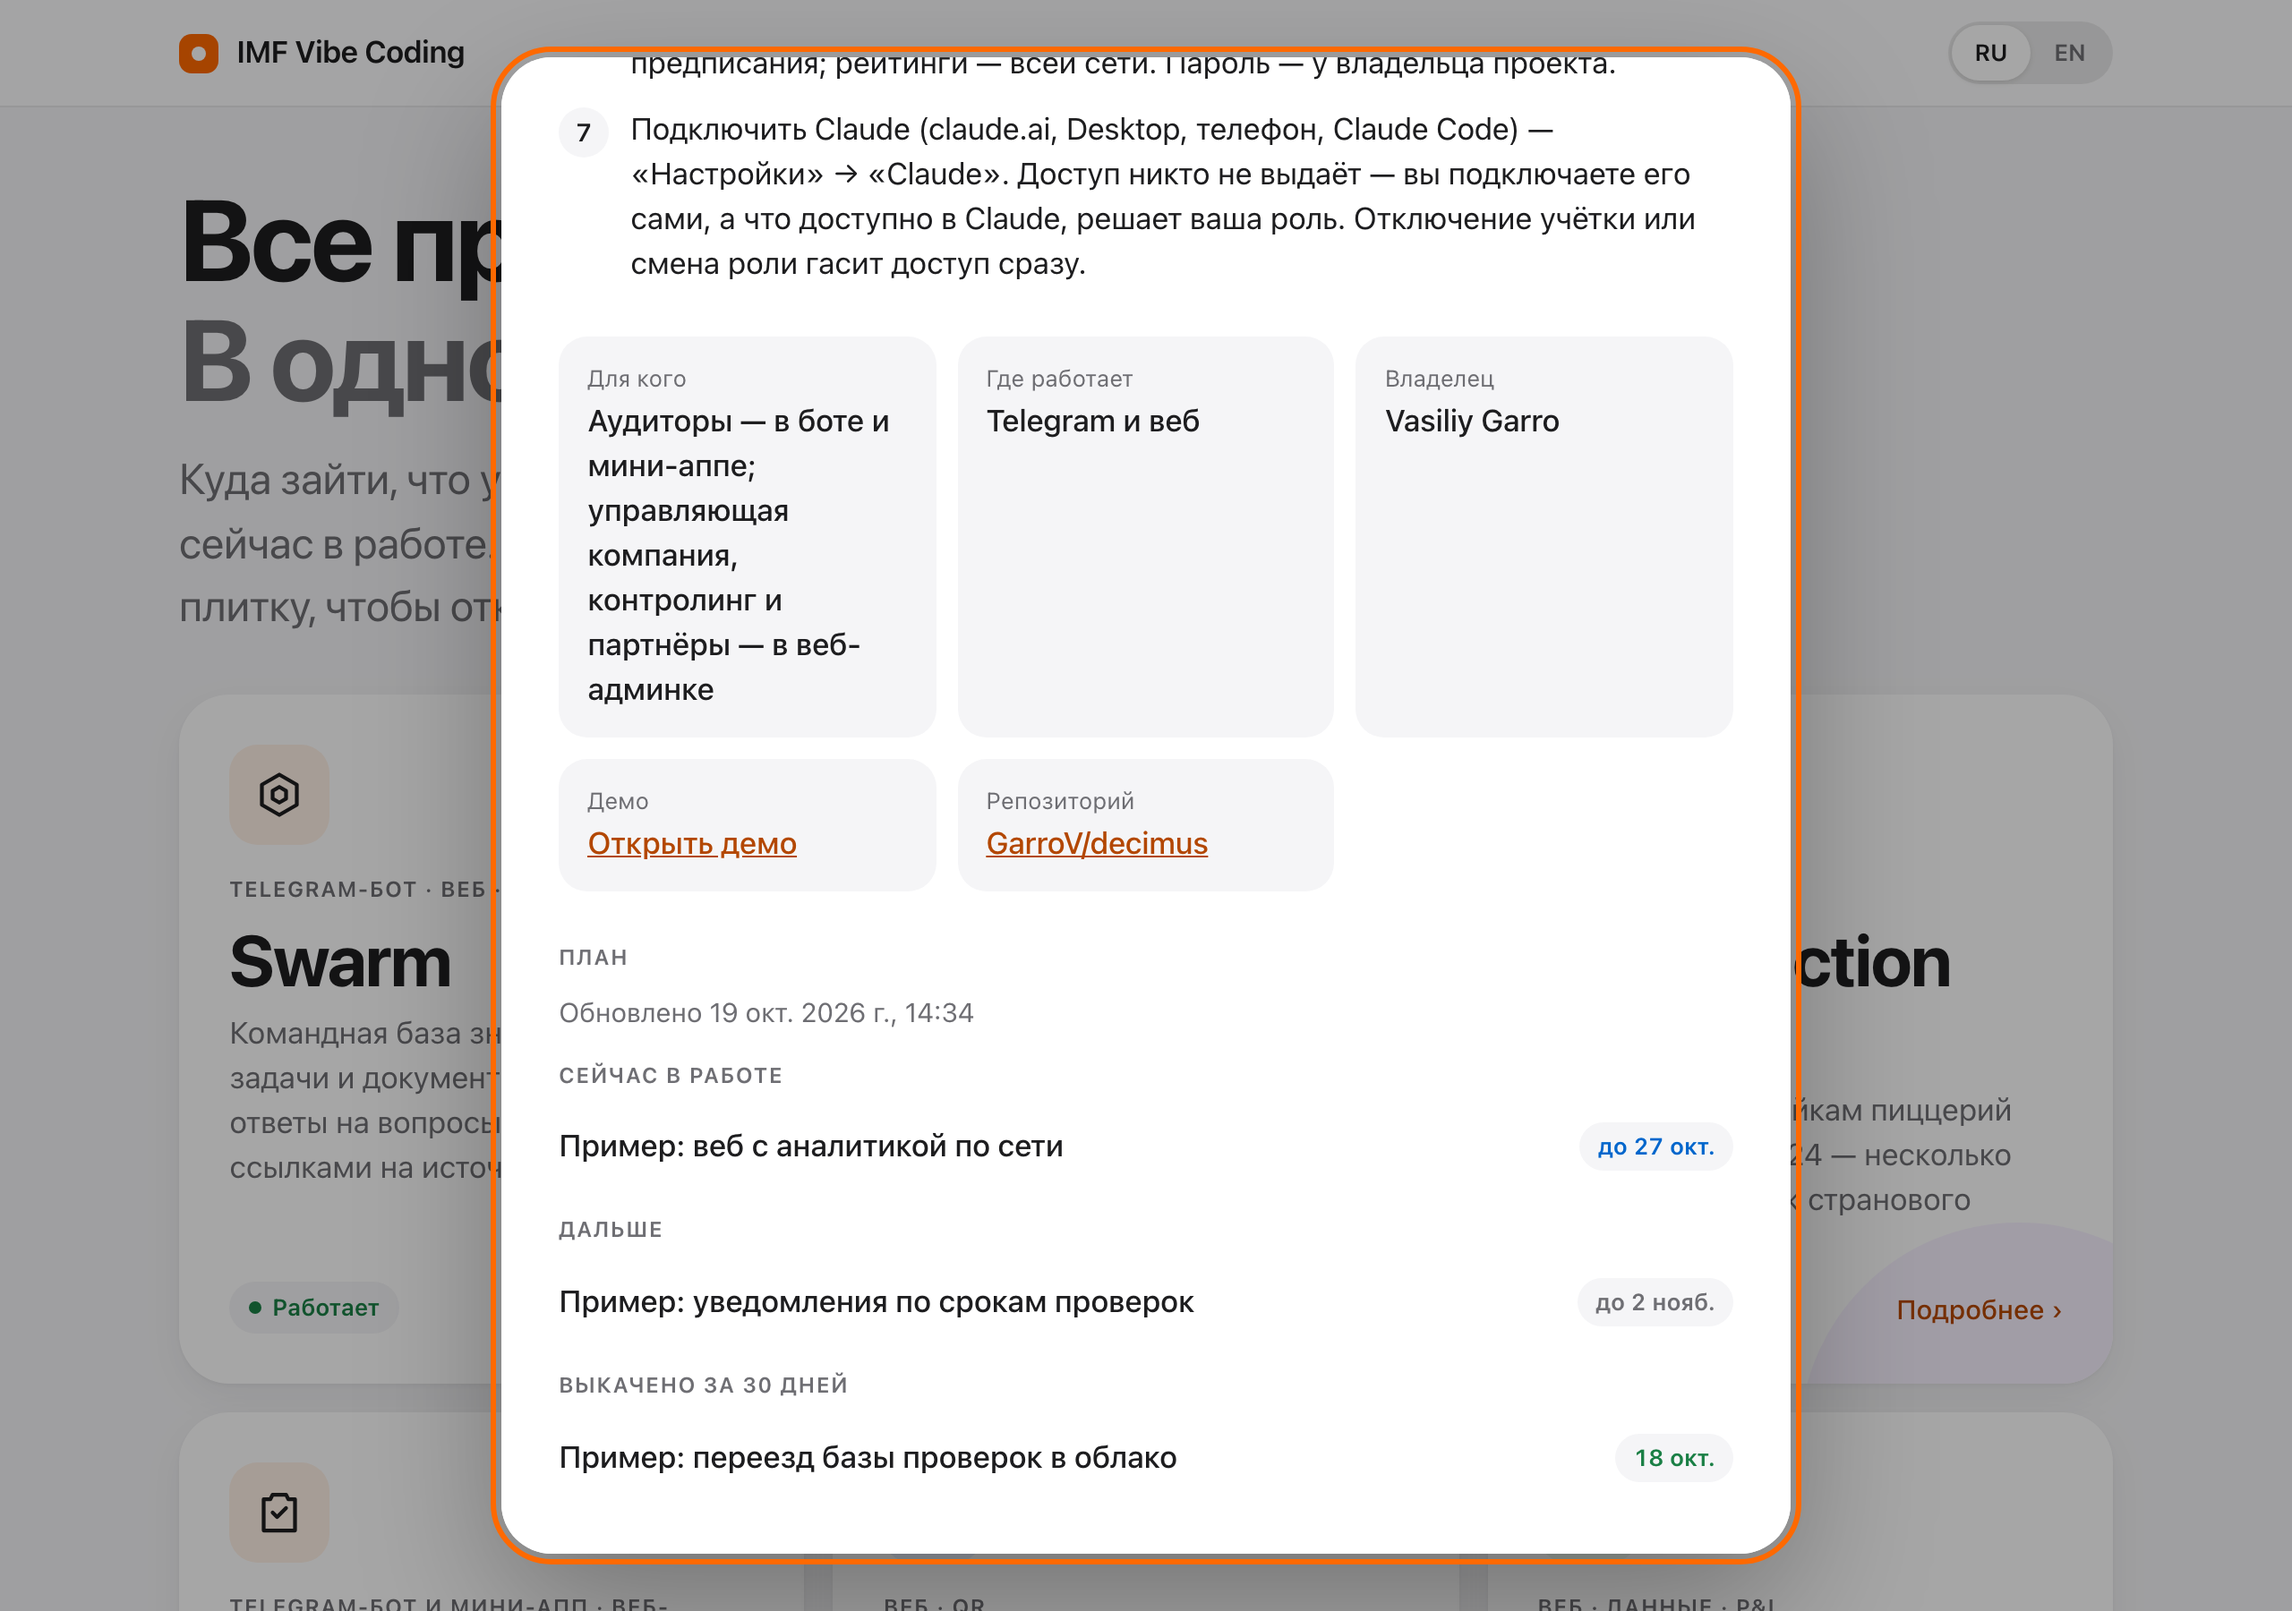
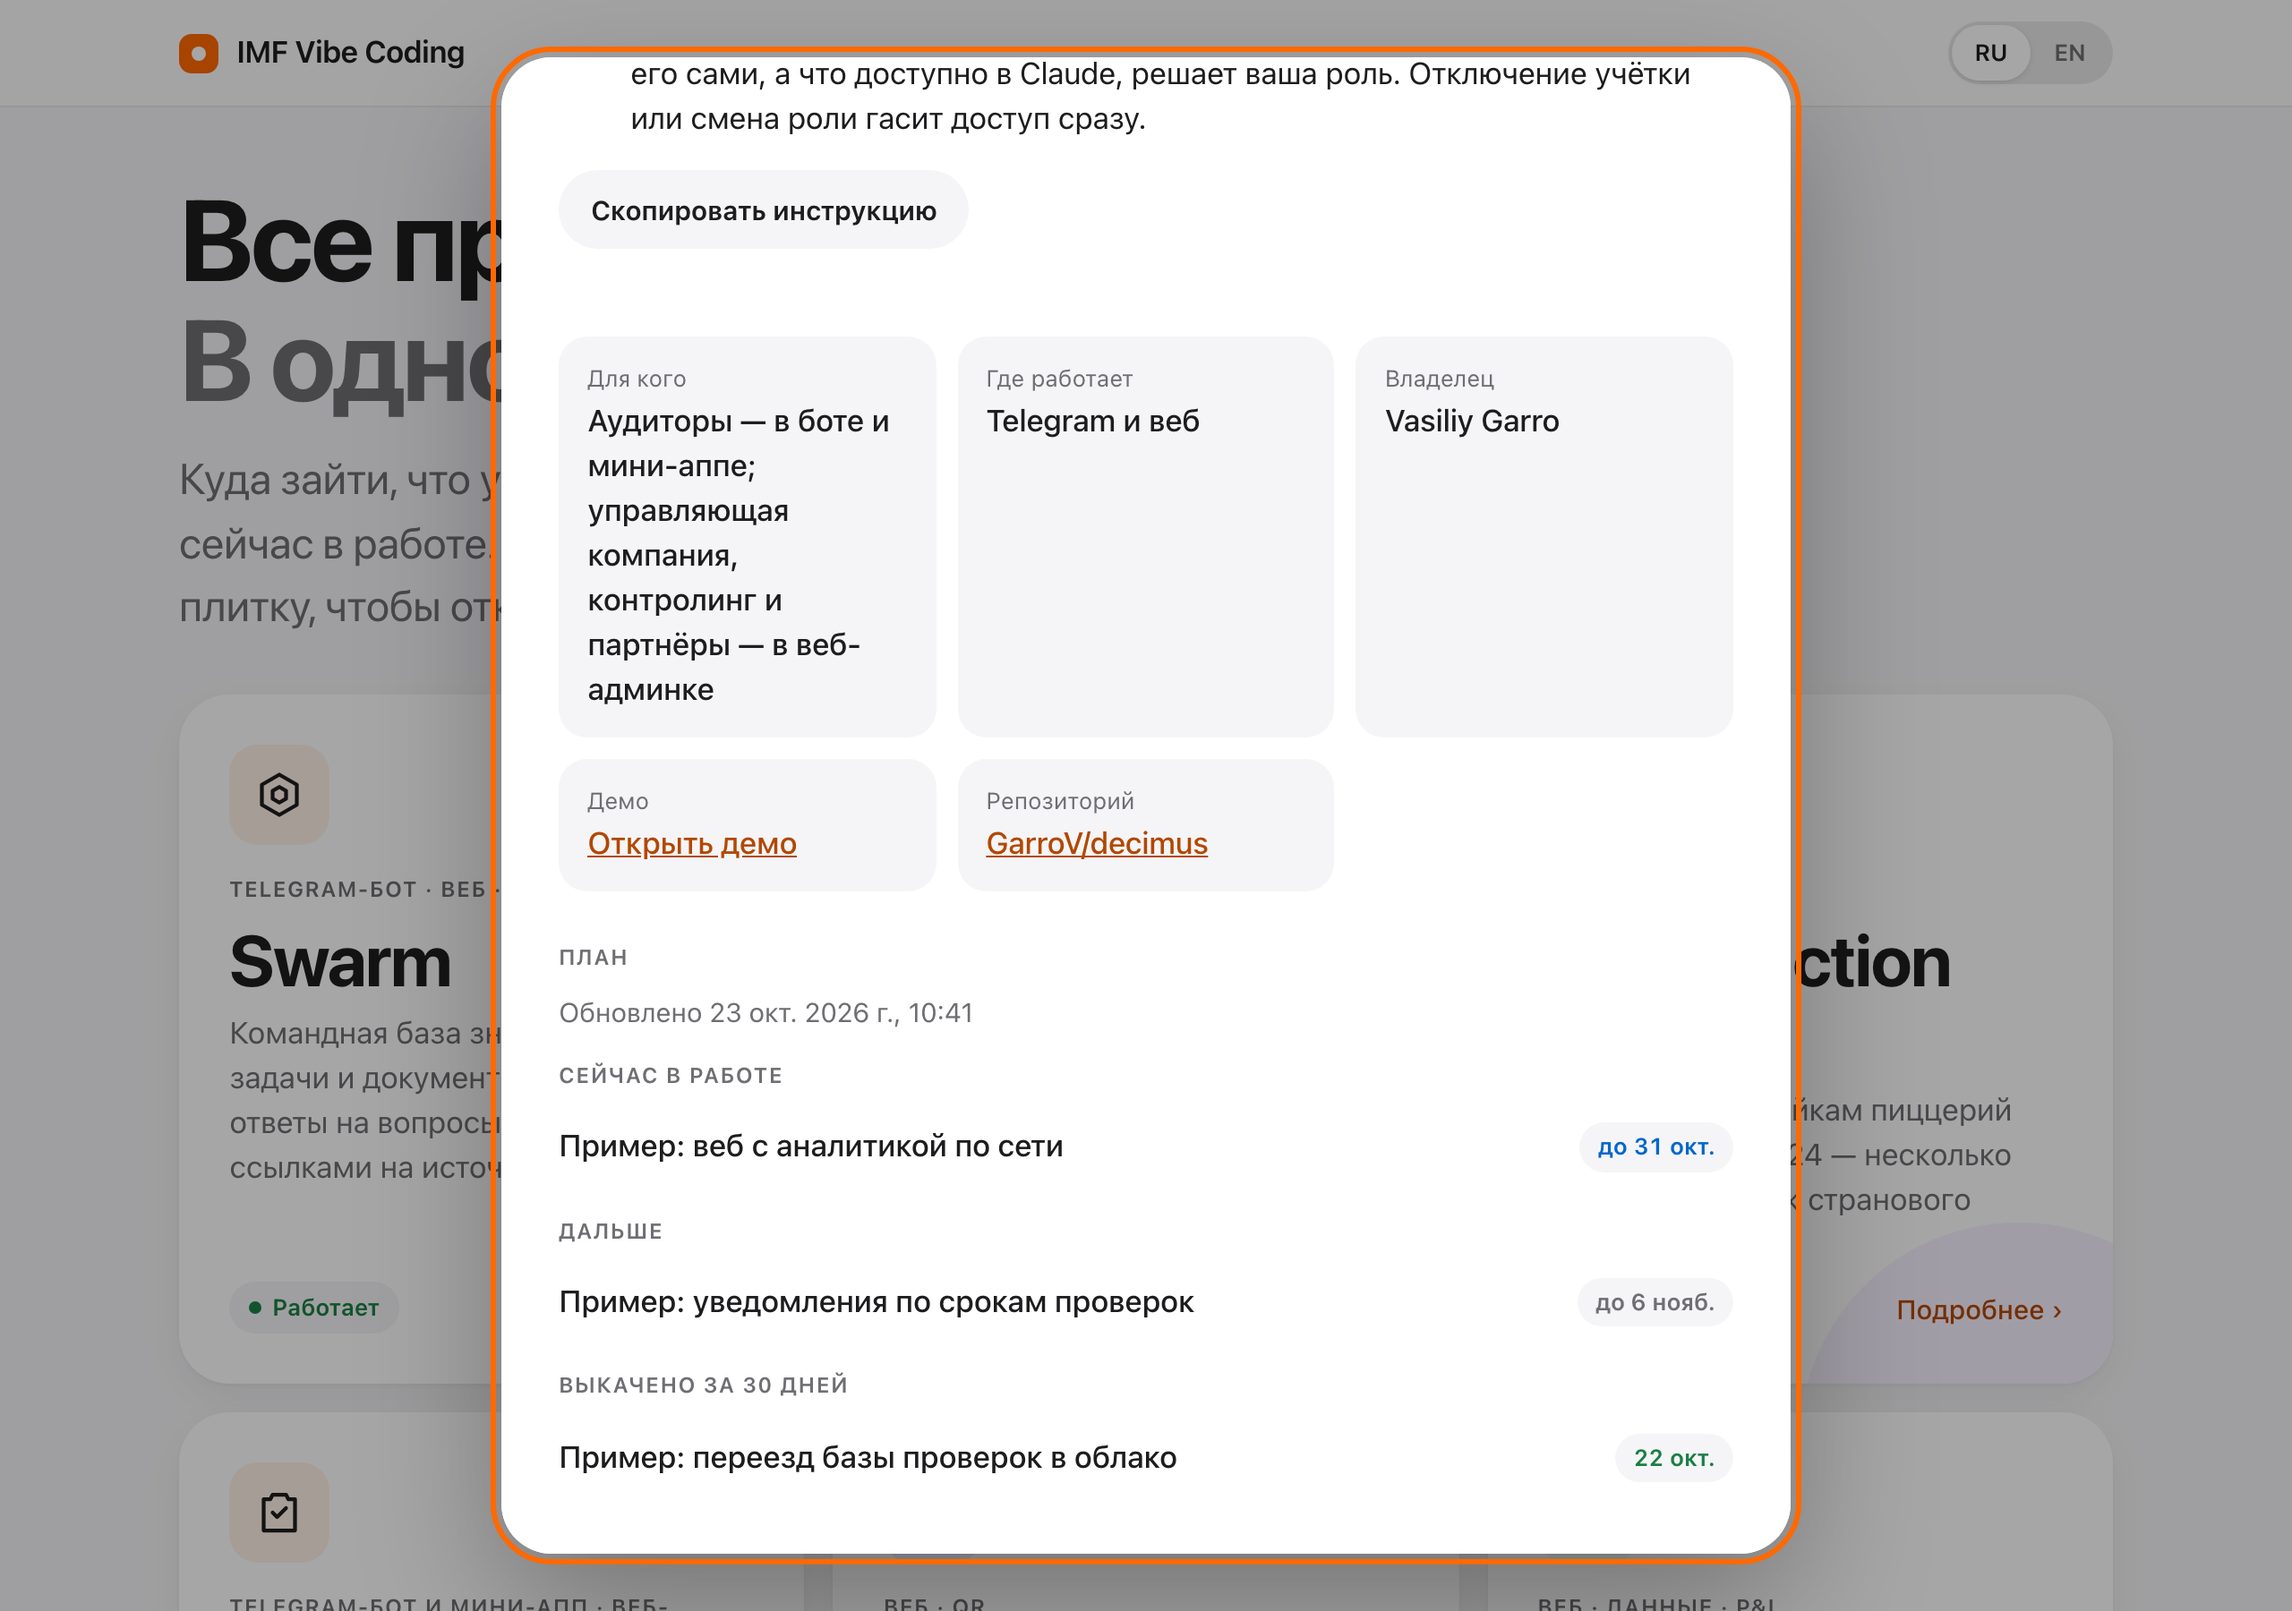
fix: карточки хаба сверены с продуктами, кнопка «Скопировать инструкцию»
- Construction bot: шаги для человека — добавить бота, подключить и отключить
  карточку; команды без @ (бот принимает их в группе с 28.07.2026).
- Swarm: основной адрес и демо — swarm-team.app (старый хост отвечает 301).
- Decimus: «Приложение аудитора» в демо, раздел «Claude (MCP)».
- Maximus: кнопка демо входит директором по операциям.
- Meridius: код привязки действует 5 минут.
- Карточка: кнопка копирует название и пронумерованные шаги на языке страницы.
- negative-check: мутация адреса Swarm перенесена на новый хост.
- Скриншоты пересняты, реестр материалов — 23.10.2026.

Changed region(s): [[0.25, 0.0311, 0.75, 0.1867], [0.3125, 0.6222, 0.4375, 0.6533]]

diff --git a/tests/e2e/hub.spec.ts b/tests/e2e/hub.spec.ts
@@ -75,12 +75,33 @@ test.describe('с фикстурой плана', () => {
     const extra = page.locator('#card-decimus [data-extra-link]');
     await expect(extra.getByRole('link', { name: 'Открыть бота' })).toHaveAttribute('href', 'https://t.me/dodo_as_bot');
     await page.goto('./#swarm');
-    await expect(page.locator('#card-swarm [data-link]')).toHaveText('https://swarm-brain.pages.dev');
+    await expect(page.locator('#card-swarm [data-link]')).toHaveText('https://swarm-team.app');
     await expect(page.locator('#card-swarm [data-extra-link] a')).toHaveAttribute('href', 'https://t.me/swarm_brain_bot');
     await expect(page.locator('#card-swarm').getByRole('link', { name: ru.demoOpen })).toHaveAttribute(
       'href',
-      /^https:\/\/swarm-brain\.pages\.dev\/api\/auth\/demo\?key=/,
+      /^https:\/\/swarm-team\.app\/api\/auth\/demo\?key=/,
     );
+  });
+
+  test('«Скопировать инструкцию» кладёт в буфер название и пронумерованные шаги на языке страницы', async ({ page, context }) => {
+    await context.grantPermissions(['clipboard-read', 'clipboard-write']);
+    for (const [path, dict, expectedHead] of [
+      ['./#decimus', ru, 'Decimus\n1. '],
+      ['en/#decimus', en, 'Decimus\n1. '],
+    ] as const) {
+      await page.goto(path);
+      const card = page.locator('#card-decimus');
+      const stepCount = await card.locator('ol.steps li').count();
+      expect(stepCount).toBeGreaterThan(0);
+      await card.getByRole('button', { name: dict.copySteps, exact: true }).click();
+      await expect(card.locator('.steps-copy [data-copy-status]')).toHaveText(dict.copied);
+      const text = await page.evaluate(() => navigator.clipboard.readText());
+      const lines = text.split('\n');
+      expect(text.startsWith(expectedHead)).toBe(true);
+      expect(lines).toHaveLength(stepCount + 1);
+      const shown = await card.locator('ol.steps li span').allTextContents();
+      expect(lines.slice(1)).toEqual(shown.map((t, i) => `${i + 1}. ${t}`));
+    }
   });
 
   test('RU/EN переключается', async ({ page }) => {

diff --git a/src/scripts/hub.ts b/src/scripts/hub.ts
@@ -1,4 +1,4 @@
-// Поведение страницы: карточки поверх страницы, копирование ссылки и лента плана.
+// Поведение страницы: карточки поверх страницы, копирование ссылки и шагов входа и лента плана.
 // DOM строится через textContent — заголовки задач приходят извне.
 import { fetchRoadmap, groupItems, parseRoadmap, type Grouped, type RoadmapResult } from '../lib/roadmap';
 import { readConfig, type HubConfig } from './config';
@@ -57,9 +57,10 @@ function wireCopy(): void {
         await navigator.clipboard.writeText(url);
         if (status) status.textContent = config.i18n.copied;
       } catch {
-        const target = btn.parentElement?.querySelector('.url');
+        const isSteps = btn.dataset.copyFail === 'steps';
+        const target = btn.closest('section')?.querySelector(isSteps ? 'ol.steps' : '.url');
         if (target) getSelection()?.selectAllChildren(target);
-        if (status) status.textContent = config.i18n.copyFailed;
+        if (status) status.textContent = isSteps ? config.i18n.copyStepsFailed : config.i18n.copyFailed;
       }
     });
   });

diff --git a/src/i18n/ru.ts b/src/i18n/ru.ts
@@ -19,6 +19,8 @@ export const ru = {
   copy: 'Скопировать',
   copied: 'Скопировано',
   copyFailed: 'Не удалось скопировать — выделите ссылку вручную',
+  copySteps: 'Скопировать инструкцию',
+  copyStepsFailed: 'Не удалось скопировать — выделите шаги вручную',
   howToEnter: 'Как зайти',
   audience: 'Для кого',
   runsOn: 'Где работает',

diff --git a/src/i18n/en.ts b/src/i18n/en.ts
@@ -19,6 +19,8 @@ export const en: Dict = {
   copy: 'Copy',
   copied: 'Copied',
   copyFailed: 'Couldn’t copy — select the link by hand',
+  copySteps: 'Copy instructions',
+  copyStepsFailed: 'Couldn’t copy — select the steps by hand',
   howToEnter: 'How to get in',
   audience: 'Who it’s for',
   runsOn: 'Runs on',

diff --git a/src/scripts/config.ts b/src/scripts/config.ts
@@ -5,6 +5,7 @@ import type { Dict } from '../i18n/ru';
 export const CLIENT_KEYS = [
   'copied',
   'copyFailed',
+  'copyStepsFailed',
   'planLoading',
   'planUnavailable',
   'planEmpty',
